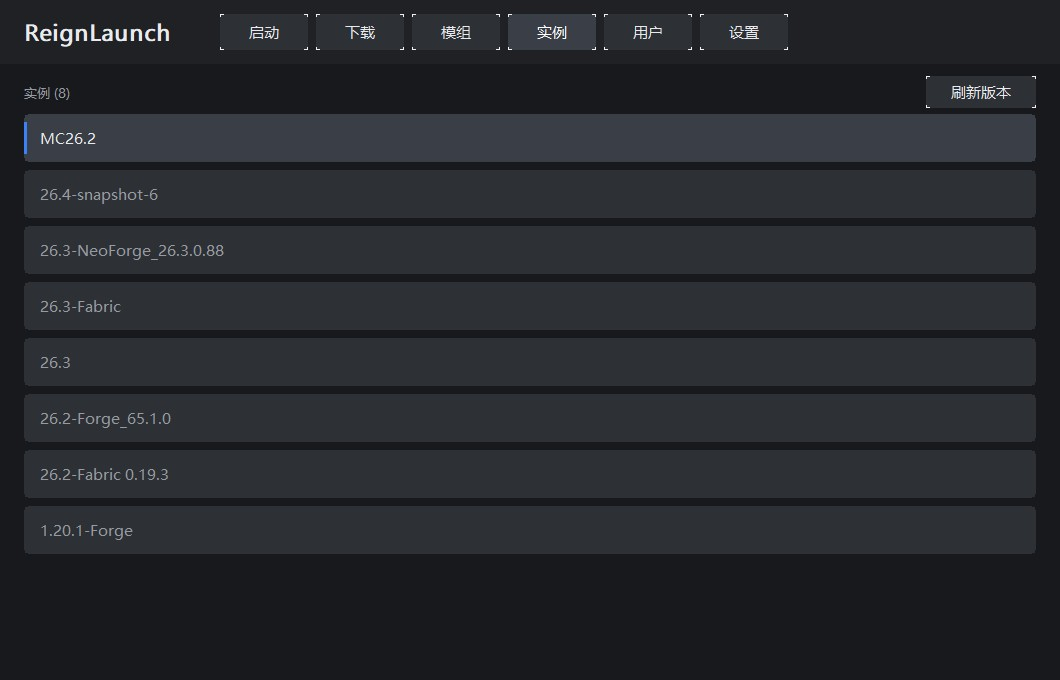
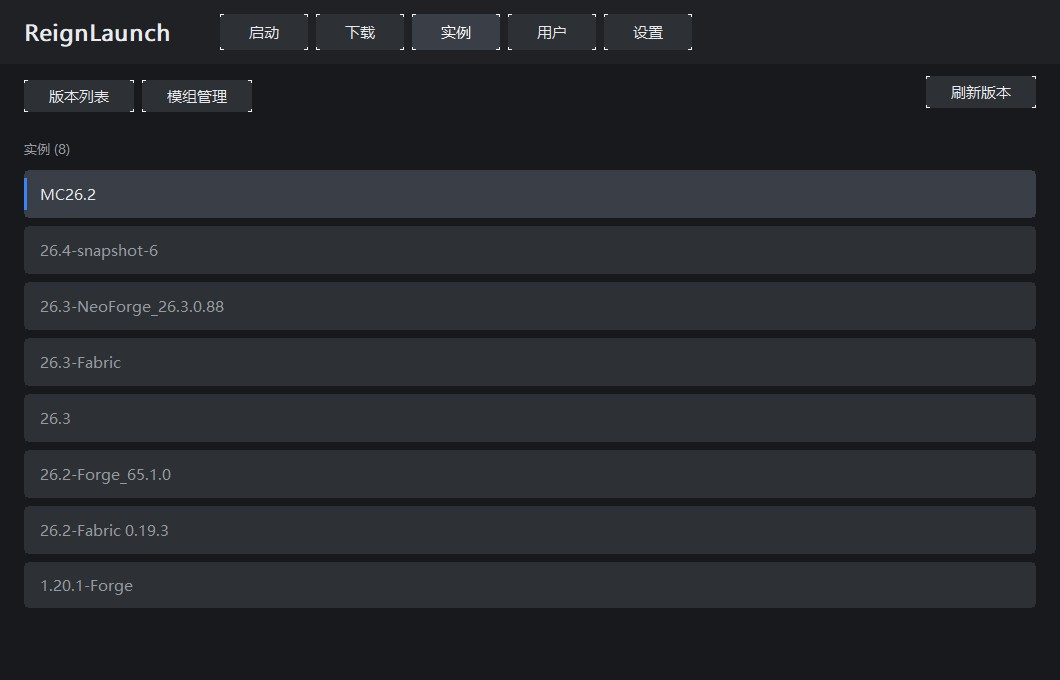
feat: mod download inside download page; mod management on instances page

diff --git a/src/ReignLaunch.cpp b/src/ReignLaunch.cpp
@@ -128,6 +128,7 @@ static HWND hLblJava, hEdJava, hBtnAutoJava, hBtnBrowseJava, hBtnJavaDrop;
 static HWND hLblMem, hEdMem, hEdName, hLblName, hBtnSave, hBtnIso, hEdThreads, hEdJvm, hEdGame, hBtnSource, hBtnFull;
 static HWND hBtnUpdate, hBtnUserM0, hBtnUserM1, hBtnUserM2;
 static HWND hBtnModTabDl, hBtnModTabIn, hEdModSearch, hBtnModSource, hBtnModInstall, hBtnModToggle, hBtnModDelete;
+static HWND hBtnDlSecGame, hBtnDlSecMod, hBtnInstTabList, hBtnInstTabMod;
 static HWND hBtnDlVanilla, hBtnDlFabric, hBtnDlQuilt, hBtnDlForge, hBtnDlNeo;
 static HWND hBtnDlF0, hBtnDlF1, hBtnDlF2, hBtnDlF3, hEdSearch, hBtnDlBack, hBtnDlInstall, hBtnDlFapi, hBtnDlQsl, hBtnDlFilterSel, hBtnDlCancel;
 
@@ -161,6 +162,8 @@ static int  g_modSel = -1;
 static int  g_modFileSel = -1;
 static int  g_modTab = 0;                        // 0=下载 1=已安装
 static int  g_modSource = 0;                     // 0=Modrinth 1=CurseForge
+static int  g_dlSection = 0;                     // 下载页：0=原版游戏 1=Mod下载
+static int  g_instTab = 0;                       // 实例页：0=版本列表 1=模组管理
 static void FetchModSearchThread(std::string q);
 static void RefreshInstalledMods();
 static std::string CurrentLoaderTag();
@@ -1552,6 +1555,10 @@ static std::string        g_loginErr;
 #define ID_MOD_INSTALL   1414
 #define ID_MOD_TOGGLE    1415
 #define ID_MOD_DELETE    1416
+#define ID_DL_SEC_GAME   1420
+#define ID_DL_SEC_MOD    1421
+#define ID_INST_TAB_LIST 1422
+#define ID_INST_TAB_MOD  1423
 #define ID_ED_SEARCH     1385
 #define ID_DL_BACK       1386
 #define ID_BTN_SAVE     1320
@@ -1649,8 +1656,8 @@ static void LayoutControls() {
     int w = g_ly.content.right, h = g_ly.content.bottom;
 
     // 顶部标签
-    HWND tabBtns[6] = { hBtnTabLaunch, hBtnTabDl, hBtnTabMods, hBtnTabInst, hBtnTabUser, hBtnTabSettings };
-    for (int i = 0; i < 6; ++i) {
+    HWND tabBtns[5] = { hBtnTabLaunch, hBtnTabDl, hBtnTabInst, hBtnTabUser, hBtnTabSettings };
+    for (int i = 0; i < 5; ++i) {
         RECT r = TabRect(i);
         MoveWindow(tabBtns[i], r.left, r.top, r.right - r.left, r.bottom - r.top, TRUE);
     }
@@ -1724,6 +1731,13 @@ static void LayoutControls() {
 
         MoveWindow(hBtnSave, x + Scale(110), y + rowH * 7 + Scale(10), Scale(140), Scale(40), TRUE);
         MoveWindow(hBtnIso,  x + Scale(270), y + rowH * 7 + Scale(10), Scale(240), Scale(40), TRUE);
+        {
+            int itx = g_ly.content.left + Scale(24);
+            int ity = g_ly.content.top + Scale(16);
+            MoveWindow(hBtnInstTabList, itx, ity, Scale(110), Scale(32), TRUE); itx += Scale(118);
+            MoveWindow(hBtnInstTabMod,  itx, ity, Scale(110), Scale(32), TRUE);
+        }
+
         MoveWindow(hEdThreads, x + Scale(110), y + rowH * 3 + Scale(6), Scale(90), Scale(30), TRUE);
         MoveWindow(hEdJvm,  x + Scale(110), y + rowH * 4 + Scale(6), Scale(560), Scale(30), TRUE);
         MoveWindow(hEdGame, x + Scale(110), y + rowH * 5 + Scale(6), Scale(560), Scale(30), TRUE);
@@ -1736,8 +1750,14 @@ static void LayoutControls() {
         {
             int tx0 = g_ly.content.left + Scale(24);
             int ty0 = g_ly.content.top + Scale(16);
+            MoveWindow(hBtnDlSecGame, tx0, ty0, Scale(110), Scale(32), TRUE); tx0 += Scale(118);
+            MoveWindow(hBtnDlSecMod,  tx0, ty0, Scale(110), Scale(32), TRUE); tx0 += Scale(126);
             MoveWindow(hBtnDlFilterSel, tx0, ty0, Scale(150), Scale(32), TRUE);
             MoveWindow(hEdSearch, g_ly.content.right - Scale(24) - Scale(240), ty0, Scale(240), Scale(30), TRUE);
+            MoveWindow(hBtnModSource,  tx0, ty0, Scale(160), Scale(32), TRUE);
+            MoveWindow(hEdModSearch,   tx0 + Scale(168), ty0, Scale(280), Scale(30), TRUE);
+            MoveWindow(hBtnModInstall, g_ly.content.right - Scale(24) - Scale(130),
+                       g_ly.content.bottom - Scale(58), Scale(130), Scale(38), TRUE);
 
             int dby = g_ly.content.top + Scale(64);
             int dbw = Scale(102), dbg = Scale(6);
@@ -1802,21 +1822,30 @@ static void SyncDownloadControls() {
     ShowWindow(hBtnDlCancel, (g_dlBusy.load() && (g_page == PAGE_DOWNLOAD)) ? SW_SHOW : SW_HIDE);
 
     {
-        bool onMods = (g_page == PAGE_MODS);
-        int s1 = onMods ? SW_SHOW : SW_HIDE;
-        ShowWindow(hBtnModTabDl, s1);
-        ShowWindow(hBtnModTabIn, s1);
-        ShowWindow(hBtnModSource, (onMods && g_modTab == 0) ? SW_SHOW : SW_HIDE);
-        ShowWindow(hEdModSearch,  (onMods && g_modTab == 0) ? SW_SHOW : SW_HIDE);
-        ShowWindow(hBtnModInstall, (onMods && g_modTab == 0) ? SW_SHOW : SW_HIDE);
-        ShowWindow(hBtnModToggle,  (onMods && g_modTab == 1) ? SW_SHOW : SW_HIDE);
-        ShowWindow(hBtnModDelete,  (onMods && g_modTab == 1) ? SW_SHOW : SW_HIDE);
+        bool onDl2  = onDl && !g_dlDetail;
+        bool game   = onDl2 && g_dlSection == 0;
+        bool modDl  = onDl2 && g_dlSection == 1;
+        ShowWindow(hBtnDlSecGame, onDl2 ? SW_SHOW : SW_HIDE);
+        ShowWindow(hBtnDlSecMod,  onDl2 ? SW_SHOW : SW_HIDE);
+        ShowWindow(hBtnDlFilterSel, game ? SW_SHOW : SW_HIDE);
+        ShowWindow(hEdSearch,       game ? SW_SHOW : SW_HIDE);
+        ShowWindow(hBtnModSource,   modDl ? SW_SHOW : SW_HIDE);
+        ShowWindow(hEdModSearch,    modDl ? SW_SHOW : SW_HIDE);
+        ShowWindow(hBtnModInstall,  modDl ? SW_SHOW : SW_HIDE);
+
+        bool onInst = (g_page == PAGE_INSTANCES);
+        ShowWindow(hBtnInstTabList, onInst ? SW_SHOW : SW_HIDE);
+        ShowWindow(hBtnInstTabMod,  onInst ? SW_SHOW : SW_HIDE);
+        ShowWindow(hBtnModToggle, (onInst && g_instTab == 1) ? SW_SHOW : SW_HIDE);
+        ShowWindow(hBtnModDelete, (onInst && g_instTab == 1) ? SW_SHOW : SW_HIDE);
+
+        ShowWindow(hBtnModTabDl, SW_HIDE);
+        ShowWindow(hBtnModTabIn, SW_HIDE);
     }
     ShowWindow(hBtnDlF0, SW_HIDE);
     ShowWindow(hBtnDlF1, SW_HIDE);
     ShowWindow(hBtnDlF2, SW_HIDE);
     ShowWindow(hBtnDlF3, SW_HIDE);
-    ShowWindow(hEdSearch, showDl);
     ShowWindow(hBtnDlVanilla, showDet);
     ShowWindow(hBtnDlFabric,  showDet);
     ShowWindow(hBtnDlQuilt,   showDet);
@@ -1838,7 +1867,7 @@ static void ShowPage(Page p) {
     ShowWindow(hBtnTabSettings, SW_SHOW);
     ShowWindow(hBtnTabInst, SW_SHOW);
     ShowWindow(hBtnTabDl, SW_SHOW);
-    ShowWindow(hBtnTabMods, SW_SHOW);
+    ShowWindow(hBtnTabMods, SW_HIDE);
         SyncDownloadControls();
 
 
@@ -3284,7 +3313,36 @@ static void PaintMain(HDC dc, int w, int h) {
     }
     else if (g_page == PAGE_INSTANCES) {
         int x   = g_ly.content.left + Scale(24);
-        int top = g_ly.content.top + Scale(16);
+        int top = g_ly.content.top + Scale(72);
+
+        if (g_instTab == 1) {
+            int mBot = g_ly.content.bottom - Scale(24);
+            if (g_modFiles.empty()) {
+                RECT e = { x, top + Scale(10), g_ly.content.right - Scale(24), top + Scale(40) };
+                DrawTextIn(dc, L"当前实例没有安装模组", e, C_DIM, g_fSmall);
+            } else {
+                int ih = Scale(44);
+                int yy = top - g_listScroll;
+                for (size_t i = 0; i < g_modFiles.size(); ++i) {
+                    RECT item = { x, yy, g_ly.content.right - Scale(24), yy + ih - Scale(6) };
+                    if (item.bottom > top && item.top < mBot) {
+                        if (item.bottom > mBot) item.bottom = mBot;
+                        bool sel = ((int)i == g_modFileSel);
+                        FillRoundRect(dc, item, 8, sel ? C_CARD_SEL : C_CARD);
+                        std::string n = g_modFiles[i];
+                        bool dis = (n.size() > 13 && n.substr(n.size() - 13) == ".jar.disabled");
+                        RECT tx = item; tx.left += Scale(16);
+                        DrawTextIn(dc, U8ToW(n), tx, dis ? C_DIM : (sel ? C_TEXT : C_DIM), g_fUi);
+                        if (dis) {
+                            RECT tr = { item.right - Scale(120), item.top, item.right - Scale(16), item.bottom };
+                            DrawTextIn(dc, L"已禁用", tr, C_ERR, g_fSmall);
+                        }
+                    }
+                    yy += ih;
+                }
+            }
+            return;
+        }
 
         RECT lbl = { x, top, g_ly.content.right - Scale(160), top + Scale(26) };
         DrawTextIn(dc, L"实例 (" + std::to_wstring(g_versions.size()) + L")", lbl, C_DIM, g_fSmall);
@@ -3383,6 +3441,45 @@ static void PaintMain(HDC dc, int w, int h) {
                 DrawTextIn(dc, L"未选中版本，点「返回」重新选择", e, C_DIM, g_fSmall);
             }
 
+            DrawDlProgress(dc);
+            DrawDlTaskPanel(dc);
+            return;
+        }
+
+        // ---------------- Mod 下载 ----------------
+        if (g_dlSection == 1) {
+            int mx0 = g_ly.content.left + Scale(24);
+            int mTop = g_ly.content.top + Scale(72);
+            int mBot = g_ly.content.bottom - Scale(24);
+
+            if (g_modState.load() == 1) {
+                RECT e = { mx0, mTop + Scale(10), g_ly.content.right - Scale(24), mTop + Scale(40) };
+                DrawTextIn(dc, L"搜索中…", e, C_DIM, g_fSmall);
+            } else if (g_modState.load() == 3) {
+                RECT e = { mx0, mTop + Scale(10), g_ly.content.right - Scale(24), mTop + Scale(40) };
+                DrawTextIn(dc, L"搜索失败，检查网络后重试", e, C_ERR, g_fSmall);
+            } else if (g_modHits.empty()) {
+                RECT e = { mx0, mTop + Scale(10), g_ly.content.right - Scale(24), mTop + Scale(40) };
+                DrawTextIn(dc, g_modState.load() == 0
+                               ? L"输入关键词搜索模组（按当前实例的版本和加载器过滤）"
+                               : L"没有找到匹配的模组", e, C_DIM, g_fSmall);
+            } else {
+                int ih = Scale(56);
+                int yy = mTop - g_listScroll;
+                for (size_t i = 0; i < g_modHits.size(); ++i) {
+                    RECT item = { mx0, yy, g_ly.content.right - Scale(24), yy + ih - Scale(8) };
+                    if (item.bottom > mTop && item.top < mBot) {
+                        if (item.bottom > mBot) item.bottom = mBot;
+                        bool sel = ((int)i == g_modSel);
+                        FillRoundRect(dc, item, 8, sel ? C_CARD_SEL : C_CARD);
+                        RECT t1 = { item.left + Scale(16), item.top + Scale(8), item.right - Scale(16), item.top + Scale(32) };
+                        DrawTextIn(dc, U8ToW(g_modHits[i].title), t1, sel ? C_TEXT : C_DIM, g_fUi);
+                        RECT t2 = { item.left + Scale(16), item.top + Scale(32), item.right - Scale(16), item.bottom - Scale(4) };
+                        DrawTextIn(dc, U8ToW(g_modHits[i].desc), t2, C_DIM, g_fSmall);
+                    }
+                    yy += ih;
+                }
+            }
             DrawDlProgress(dc);
             DrawDlTaskPanel(dc);
             return;
@@ -3810,6 +3907,11 @@ static LRESULT CALLBACK MainProc(HWND hwnd, UINT msg, WPARAM wp, LPARAM lp) {
         hBtnOffline = MakeBtn(hwnd, L"使用离线", ID_BTN_OFFLINE);
         hBtnSkin    = MakeBtn(hwnd, L"更换皮肤", ID_BTN_SKIN);
         hBtnDelAcc  = MakeBtn(hwnd, L"删除账户", ID_BTN_DELACC);
+        hBtnDlSecGame = MakeBtn(hwnd, L"原版游戏", ID_DL_SEC_GAME);
+        hBtnDlSecMod  = MakeBtn(hwnd, L"Mod下载",  ID_DL_SEC_MOD);
+        hBtnInstTabList = MakeBtn(hwnd, L"版本列表", ID_INST_TAB_LIST);
+        hBtnInstTabMod  = MakeBtn(hwnd, L"模组管理", ID_INST_TAB_MOD);
+
         hBtnModTabDl  = MakeBtn(hwnd, L"模组下载", ID_MOD_TABDL);
         hBtnModTabIn  = MakeBtn(hwnd, L"已安装",   ID_MOD_TABIN);
         hBtnModSource = MakeBtn(hwnd, L"源：Modrinth", ID_MOD_SOURCE);
@@ -4007,6 +4109,32 @@ static LRESULT CALLBACK MainProc(HWND hwnd, UINT msg, WPARAM wp, LPARAM lp) {
                         g_status = L"已选择：" + U8ToW(id) + L"  → 点下方的按钮安装";
                         InvalidateRect(hwnd, nullptr, TRUE);
                     }
+                }
+            }
+            return 0;
+        }
+
+        if (g_page == PAGE_DOWNLOAD && g_dlSection == 1) {
+            int mTop = g_ly.content.top + Scale(72);
+            if (pt.y >= mTop) {
+                int ih = Scale(56);
+                int idx = (pt.y - mTop + g_listScroll) / ih;
+                if (idx >= 0 && idx < (int)g_modHits.size()) {
+                    g_modSel = idx;
+                    InvalidateRect(hwnd, nullptr, TRUE);
+                }
+            }
+            return 0;
+        }
+
+        if (g_page == PAGE_INSTANCES && g_instTab == 1) {
+            int mTop = g_ly.content.top + Scale(72);
+            if (pt.y >= mTop) {
+                int ih = Scale(44);
+                int idx = (pt.y - mTop + g_listScroll) / ih;
+                if (idx >= 0 && idx < (int)g_modFiles.size()) {
+                    g_modFileSel = idx;
+                    InvalidateRect(hwnd, nullptr, TRUE);
                 }
             }
             return 0;
@@ -4411,6 +4539,16 @@ static LRESULT CALLBACK MainProc(HWND hwnd, UINT msg, WPARAM wp, LPARAM lp) {
         InvalidateRect(hwnd, nullptr, TRUE);
         break;
     }
+
+    case ID_DL_SEC_GAME:
+        g_dlSection = 0; g_dlDetail = false; SyncDownloadControls(); InvalidateRect(hwnd, nullptr, TRUE); break;
+    case ID_DL_SEC_MOD:
+        g_dlSection = 1; g_modSel = -1; SyncDownloadControls(); InvalidateRect(hwnd, nullptr, TRUE); break;
+    case ID_INST_TAB_LIST:
+        g_instTab = 0; SyncDownloadControls(); InvalidateRect(hwnd, nullptr, TRUE); break;
+    case ID_INST_TAB_MOD:
+        g_instTab = 1; g_modFileSel = -1; RefreshInstalledMods();
+        SyncDownloadControls(); InvalidateRect(hwnd, nullptr, TRUE); break;
 
     case ID_MOD_TABDL:
         g_modTab = 0; g_modFileSel = -1; SyncDownloadControls(); InvalidateRect(hwnd, nullptr, TRUE); break;

diff --git a/README.md b/README.md
@@ -12,14 +12,13 @@
 
 ### 页面结构
 
-顶部六个标签：**启动 / 下载 / 模组 / 实例 / 用户 / 设置**；「关于」在设置页左侧子菜单里。
+顶部五个标签：**启动 / 下载 / 实例 / 用户 / 设置**；「关于」在设置页左侧子菜单里。
 
 | 页面 | 内容 |
 |---|---|
 | 启动 | 账号 / 内存 / 当前版本，启动按钮 + ▲ 实例选择浮层 |
-| 下载 | 原版与模组加载器下载（两级页面） |
-| 模组 | 模组搜索下载 + 已安装模组管理 |
-| 实例 | 整页实例列表，点一行即切换 |
+| 下载 | 原版游戏 / Mod下载 两个分区 |
+| 实例 | 实例列表 + 模组管理（启用/禁用/删除） |
 | 用户 | 左侧账户列表，右侧三种登录方式 |
 | 设置 | 游戏目录、Java、内存、线程、JVM/游戏参数、下载源、窗口模式、版本隔离 |
 
@@ -43,19 +42,19 @@
 
 **下载加速**：每线程复用 WinHTTP 会话，默认 16 线程（可调 1–128）。
 
-### 模组页
+### Mod 下载
 
-![模组](screenshots/ui_mods.jpg?v=20261103)
+![Mod下载](screenshots/ui_download_mod.jpg?v=20261103b)
 
 **模组下载**
 
-- 源切换：Modrinth（可用）/ CurseForge（需 API Key，暂未配置）
+- 下载页顶部切到「Mod下载」分区，源可切 Modrinth（可用）/ CurseForge（需 API Key）
 - 搜索按当前实例自动过滤：原版 MC 版本 + 加载器类型
   （Forge 实例搜 Forge 版模组，Fabric 实例搜 Fabric 版）
 - 结果列出名称与简介，选中后点「下载并安装」→ 下载到该实例的 `mods/`
   （开了版本隔离就进 `versions/<实例>/mods`）
 
-**已安装管理**
+**实例页的模组管理**
 
 - 列出当前实例 `mods/` 下的所有 `.jar`
 - **启用 / 禁用**：重命名 `.jar` ↔ `.jar.disabled`，禁用的显示「已禁用」
